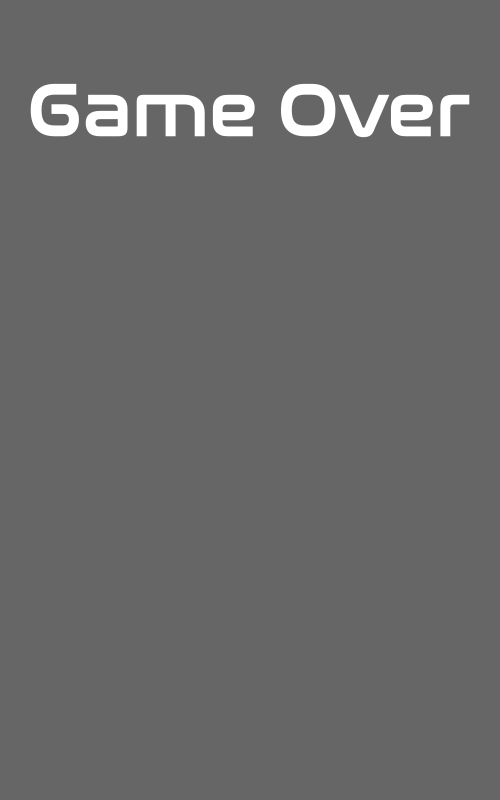
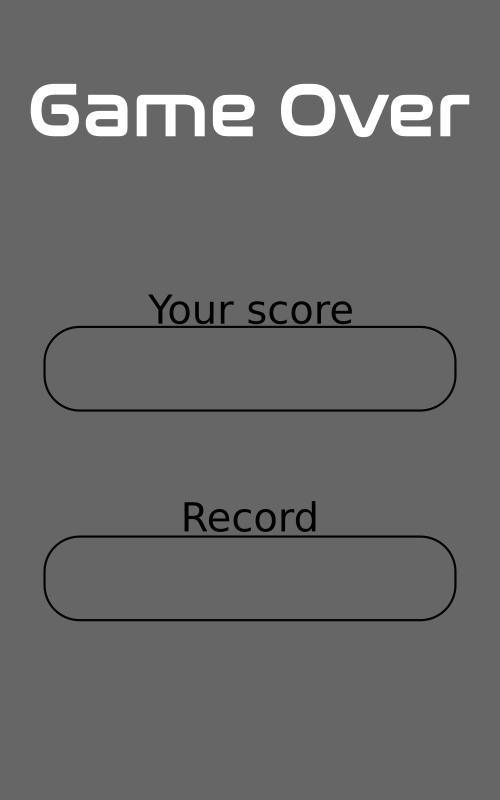
adicionado sistema de recorde

diff --git a/game.py b/game.py
@@ -1,6 +1,7 @@
 # Importando modulos
 import pygame
 import random
+import os.path
 
 # Iniciando o pygame
 pygame.init()
@@ -44,13 +45,44 @@ obstaculo1 = (carro1, carro2, carro3)
 player = (carro1, carro2, carro3)
 obstaculo1_cor = 0
 
+# Gerando historico de pontuação, Rank
+def rank(score_new):
+	global score_max
+	# Criando o arquivo rank.txt
+	e = os.path.isfile('rank.txt')
+	if e == False:
+		rank = open('rank.txt', 'w')
+		rank.write('1')
+		rank.close()
+
+	# Lendo maior pontuação
+	rank = open('rank.txt', 'r')
+	score_file = rank.read()
+	rank.close()
+
+	# Comparando pontuação
+	score_file = int(score_file)
+	if score_new > score_file:
+		score_max = score_new
+	else:
+		score_max = score_file
+
+	# Escrevendo maior pontuação
+	rank = open('rank.txt', 'w')
+	rank.write(str(score_max))
+	rank.close()
+
 # Game over
 def gameover(pontos):
+	rank(pontos)
+	recorde = score_max
 	tela.fill([0, 0, 0])
 	tela.blit(img003, [0, 0])
-	font = pygame.font.Font('nasa.ttf', int(20 * escala))
+	font = pygame.font.Font('nasa.ttf', int(40 * escala))
 	text = font.render(str(pontos), True, [255, 255, 255])
-	tela.blit(text, [int(70 * escala), int(480 * escala)])
+	text2 = font.render(str(recorde), True, [255, 255, 255])
+	tela.blit(text, [int(160 * escala), int(350 * escala)])
+	tela.blit(text2, [int(160 * escala), int(550 * escala)])
 	pygame.display.update()
 	pygame.time.wait(10000)
 
